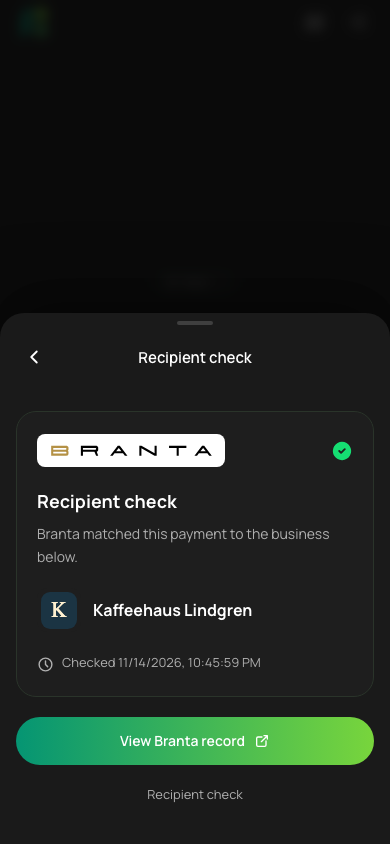
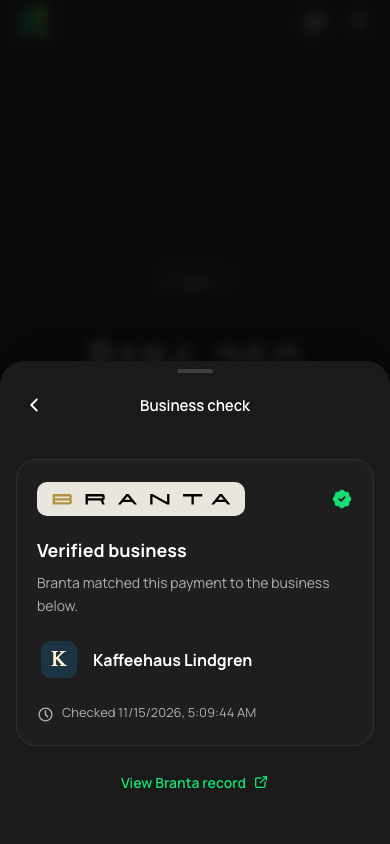
docs(payments): the business check as it now behaves
BRANTA.md describes the named recipient row, what happens at confirm, the
receipt sheet, the other payment paths and the single amount format. The
risks the review examined are kept as a table in the feature record; the
review log itself, the unreferenced older captures and the note that sat
in public/ are removed. Captures are regenerated from the browser run.
The changelog says what a person notices.

diff --git a/docs/BRANTA.md b/docs/BRANTA.md
@@ -2,7 +2,9 @@
 
 [← Feature records](README.md)
 
-Before sending, BuhoGO can match a payment destination to a business registered with [Branta](https://branta.pro). A matched business supplies a centered, accessible logo on the payment review and success screen. Its name stays visible in History, the receipt and verification details. Unmatched, unsupported or unavailable checks keep the ordinary recipient; they are not errors.
+Before sending, BuhoGO can match a payment destination to a business registered with [Branta](https://branta.pro). A matched business is the recipient: its logo, its name and the line "Verified business" with the seal sit in the recipient row of the payment review. The paid screen says "To <name>" with the same mark and seal, and History and the receipt keep the name. Unmatched, unsupported or unavailable checks keep the ordinary recipient; they are not errors.
+
+One name and one icon are used everywhere: "Business check" for the feature and its view (Settings, the sheet, the receipt), "Verified business" for the state, and the seal.
 
 The review keeps BuhoGO's colors, typography, wallet selector and confirmation gestures. Fee, optional note and total are grouped in one card. Bitcoin on-chain speed selection and its SDK fee breakdown remain directly visible, with their existing controls.
 
@@ -10,12 +12,14 @@ The review keeps BuhoGO's colors, typography, wallet selector and confirmation g
 
 | Context | Entry and behavior |
 |---|---|
-| Before paying | Info opens Payment details. A discreet check opens the current recipient check in that same sheet. Back restores details, then the unchanged amount, wallet and note. |
-| After paying | A green receipt-header check opens the saved business check inside the existing receipt page. Back restores the receipt, without a second modal or a new Branta lookup. |
+| Before paying | Tapping the recipient row opens the business check in the same sheet; Back returns to the review. Info opens Payment details, which has a Business check row too; Back from there returns to details. Amount, wallet and note are unchanged either way. |
+| After paying | The seal in the receipt header opens the saved business check as a bottom sheet over the receipt, like the page's other sheets. Done, Escape, a swipe or Back closes it. No new Branta lookup is made. |
 
-BrantaVerificationDetails is shared by both hosts. Current and historical wording differ. New snapshots contain the historical check time; older records without a timestamp never receive an invented time. Branta's original wordmark is bundled locally and is not recolored. Missing artwork uses business initials, with the full name available to assistive technology and in details.
+BrantaVerificationDetails is shared by both hosts. Current and historical wording differ. New snapshots contain the historical check time; older records without a timestamp never receive an invented time. Missing artwork uses the business's initial next to its name, never a generic mark.
 
-The external record opens only when View Branta record is tapped. Invalid URLs are omitted. A failed explicit open offers a short retry message, without a diagnostic report. The receipt host preserves its financial content and restores keyboard focus to the check. Header Back, Escape and history Back close the local disclosure; ordinary navigation can leave.
+The external record opens only when View Branta record is tapped; it is a secondary link, never the screen's main action. Invalid URLs are omitted. A failed explicit open offers a short retry message, without a diagnostic report. The receipt's sheet is an ordinary dialog: it owns Back, Escape and focus return, and the page has no back handling of its own.
+
+Branta's wordmark (`public/images/branta/wordmark-on-light.svg`) is the original from <https://www.branta.pro/brand/wordmark-on-light.svg>, bundled so the check view never requests provider branding over the network. Paths, proportions and colours are unchanged. In the dark theme it sits on a quiet light plate; it is not filtered or recoloured. Brand guidance: <https://www.branta.pro/brand>.
 
 ## SDK and destination binding
 
@@ -26,26 +30,41 @@ Original request/proof parameters remain intact. Duplicate proof or destination 
 | Existing BuhoGO route | Verification boundary |
 |---|---|
 | Lightning invoice | Exact invoice actually paid. |
-| Arkade address | Exact address; preserve BuhoGO's supported route rather than copying CoinSnap's wallet restriction. |
+| Arkade address | Exact address, on every wallet BuhoGO can pay it from. |
 | Bitcoin request with Branta proof | Preserve the full code for SDK decryption, then bind the selected destination. |
 | Unified request | A matching sibling destination does not verify the selected route. |
 | Spark-optimized Lightning | No identity when the SDK does not expose a matching native destination. Routing is not changed to obtain verification. |
 | First-party BuhoGO requests and curated retail | Existing exclusions remain. |
 | Unsupported/unexposed destinations | Ordinary payment behavior. SDK version alone does not establish new Spark/network support. |
 
-The same SDK preparation that selects the route supplies its verification-target metadata. If a refreshed Spark preparation selects another destination before debit, a narrow provider callback stops submission and returns to explicit review. It does not alter routing, send automatically or bypass fee limits.
+The same SDK preparation that selects the route reports that route (`preparedRoute`). If a refreshed Spark preparation selects another destination before debit, the provider's `onPreparedRoute` callback stops submission (`PAYMENT_REVIEW_REQUIRED`) and the sheet returns with one plain line saying the business check is not available. It does not alter routing, send automatically or bypass fee limits. The provider knows nothing about the check itself.
+
+Logo and record URLs must be on the configured Branta origin. The SDK enforces the same rule for logos (it refuses a record whose logo is on another origin), so this does not drop real artwork.
 
 ## Timing and ownership
 
-One request-scoped controller retains the original input, lookup generation, selected wallet/request/amount/route binding and a latched changed-code result. The foreground wait is bounded at two seconds; the lookup deadline is ten seconds. Cached answers have a bounded lifetime. A late normal match cannot replace the settled presentation under a finger.
+All of it lives in `src/services/brantaVerification.js`. `createBrantaVerification` is one lookup session for one payment request: it retains the original input, the lookup generation, the binding to wallet, amount and route, and a latched changed-code result. `createBrantaReview` is what the sheet needs around it: which destination is actually paid, the business accepted at confirm, the guard on the prepared route and the snapshot for the receipt. The wallet page supplies live facts, watches one key and reads the result from the payment; it holds no check state. The check writes only its result (`branta`, `brantaMismatch`) to the payment object: the page re-estimates fees whenever that object changes, so the route a wallet prepared is kept beside it, not on it.
 
-Stale checks refresh before confirmation. A changed displayed identity, including a previously unknown identity, requires review again. The accepted snapshot is frozen for the attempt; later SDK events cannot substitute another business. Cancellation, replacement, wallet changes and disposal invalidate old work. Changed-code results block Send and dominate wallet/details child views.
+The foreground wait is bounded at two seconds; the lookup deadline is ten seconds. Cached answers have a bounded lifetime. A late normal match cannot replace the settled presentation under a finger.
+
+Stale checks refresh at confirmation. What happens then:
+
+| At confirm | Result |
+|---|---|
+| Same business as reviewed, or still no match | The payment is sent. |
+| A check that only now finished and found a business | The payment is sent; the paid screen and the receipt name the business. The destination is the one the person confirmed. |
+| Another business than the one reviewed | The send stops. The row shows the new business and one line says "The recipient changed. Review it before sending." |
+| The reviewed business cannot be confirmed again | The send stops once. One line says the business check is not available; the next tap sends, without the claim. There is no loop. |
+| The recheck is still unanswered (slow link) | The reviewed business is kept and the payment is sent. The sheet does not flicker to the checking state. |
+| A changed code | The payment stops. There is no Send action. |
+
+The accepted snapshot is fixed for the attempt; later SDK events cannot substitute another business. Cancellation, replacement, wallet changes, disposal and a completed send invalidate old work. Changed-code results block Send and dominate wallet/details child views.
 
 The changed-code screen says Ask for a new code, explains that the code changed and reassures that nothing was sent. There is no Send action or bypass.
 
 ## Historical records and privacy
 
-New snapshots retain business fields, check time, SDK version, environment and exact destination. The existing transaction metadata store is reused. Merchant metadata needs wallet-scoped transaction evidence; amount/time-only matches cannot attach a verified business. Weaker association for unrelated contact/note metadata is retained. A first accepted historical identity is not silently replaced; history never runs a fresh verification.
+A saved check keeps what a receipt shows: the business's name, logos and description, the check time, the environment and the record URL. The paid destination and SDK fields are not saved with it. The existing transaction metadata store is reused. A verified business is attached only to the payment its ids prove (the wallet's payment id, hash or preimage, or the invoice's payment hash), in the wallet that paid; amount or time alone never attach one. When no payment proves it within ten minutes, only the claim is dropped: contact, address, label and refund address are stamped as for any other send. A first accepted historical identity is not silently replaced; history never runs a fresh verification.
 
 Record URLs may contain decryption fragments. They stay in local transaction metadata and are not added to payment notes or diagnostic logging. The existing metadata backup API includes the saved snapshot, so such backups remain private payment data. Record/logo URLs require HTTPS and the exact configured Branta origin; credentials and arbitrary record paths are refused.
 
@@ -53,11 +72,21 @@ The SDK performs client-side encrypted lookups. This does not justify absolute a
 
 Settings → Advanced → Business check retains the persisted preference and defaults. Its short footer avoids an absolute privacy promise. Production builds use Production; Staging can be selected only in development.
 
+## Other payment paths
+
+| Path | Business check | Amount entry |
+|---|---|---|
+| Kiosk | Not used; kiosk has its own pages and never mounts the review sheet. | Unchanged. |
+| Bolt Card redeem | Not checked (a redeem is a receive). It uses the same sheet, so the amount entry rules apply. | Shared util. |
+| Batch send | Not checked, as before. | Shared util: a comma is never dropped. |
+| Transfer between own wallets | Not checked; both sides are the person's own. | Shared util: a decimal is refused, never cut off. |
+| Auto-Transfer, shop purchases | Not checked, as before. | No typed amount at send time. |
+
 ## Amount correctness
 
-Fixed amounts use locale grouping for presentation only. Raw entered values and canonical satoshis remain separate. Hero, denomination, fees, total and slide use consistent units, including the existing Bitcoin-format preference. The tap action is simply Send.
+Amounts are written one way on every screen: in the phone's number format, like the balance, the paid screen, the receipt and History. The formatter is `src/utils/amountFormatting.js` (`paymentAmountParts`, `formatPaymentAmount`, `formatFiatAmount`); the fiat line under the amount uses it too, so separators never mix on one sheet. Raw entered values and canonical satoshis remain separate. Hero, denomination, fees, total and slide use consistent units, including the existing Bitcoin-format preference. A fixed amount shown in fiat keeps its approximate sign. The tap action is simply Send.
 
-Locale-aware entry validates grouping and fractional precision without stripping punctuation into a different value. German 10,5 stays 10.5, not 105; grouped whole sats stay whole. Ambiguous or malformed input stays editable with Send disabled.
+Entry (`src/utils/paymentAmountInput.js`) reads the decimal separators of both the app language and the phone, because the keypad's decimal key follows the phone. It validates grouping and fractional precision without stripping punctuation into a different value. 10,5 stays 10.5, not 105, also with the app in English; grouped whole sats stay whole. One mark followed by one or two digits is a decimal. Three digits after a single mark could be thousands or a decimal where both readings exist, so that input is refused. Ambiguous or malformed input stays editable with Send disabled.
 
 BTC-to-satoshi conversion uses decimal digits and integer arithmetic: 0.00000029 BTC remains exactly 29 sats instead of losing a sat to binary floating-point multiplication. Existing payout, refund, card, quote and slide rules remain authoritative. A nonzero fiat fee smaller than a display cent is not mislabeled zero.
 
@@ -65,32 +94,48 @@ BTC-to-satoshi conversion uses decimal digits and integer arithmetic: 0.00000029
 
 - Adapter, timing, exact destination binding, provider pre-debit and merchant-metadata association regressions join the existing full suite.
 - Payment-sheet tests cover exact conversion, grouped display, unit changes, payouts/refunds, unknown fees, child-view restoration and changed-code precedence.
-- Receipt-navigation tests cover Back, ordinary navigation, context resets, Escape and focus.
+- Receipt tests cover the saved check as a sheet, context resets and stale loads.
 - The Branta browser harness uses the real public SDK with a local verifier and simulated wallet providers. No funds or external messages are sent.
 - Payment-sheet, payment-preparation and full contact-chat browser checks retain money/state assertions.
 - Screenshots cover current/historical details, review, changed codes, ordinary fallback, artwork failure, translations/enlarged text and both themes. Native-device acceptance is separate.
 
-Run `npm test` and `pnpm build` for the regression suite and production compilation. With a local dev server on port 9019, run:
+Run `npm test` and `npm run build` for the regression suite and production compilation. With a local dev server on port 9019, run:
 
 ```sh
-BRANTA_BASE_URL=http://localhost:9019 node scripts/check-branta.mjs
+BRANTA_BASE_URL=http://localhost:9019 npm run check:branta
 PAYMENT_SHEET_BASE_URL=http://localhost:9019 npm run check:payment-sheet
 PAYMENT_PREPARATION_BASE_URL=http://localhost:9019 npm run check:payment-preparation
 CONTACT_CHAT_BASE_URL=http://localhost:9019 npm run check:contact-chat
 ```
 
-The [red-team/blue-team review](BRANTA_REVIEW.md) records the failure cases examined and their resolutions.
+## What can go wrong, and what stops it
+
+| Risk | What stops it |
+|---|---|
+| One verified destination brands another route or sibling payment | The decrypted destination must match its owning business and the route the wallet actually prepared. Ambiguous owners remain ordinary payments. |
+| A quote expires and Spark selects another route during submission | The prepared route is checked before the debit. The attempt is refused for another review, without disconnecting the wallet or reporting an error. |
+| A late result changes the recipient under a finger | One lookup session is bound to request, wallet, amount and route, and its settled view is fixed. Changed-code results latch and block submission. |
+| Returning to a route whose check had settled lets another route's late answer show | Every bind supersedes older waits, including the shortcut for a settled route. |
+| A stale or changed business is silently accepted | Stale checks refresh at confirmation; another business requires review. Invalid or expired records cannot create a permanent match. |
+| A receipt inherits branding from another payment | Wallet-scoped proof of the payment is required; time or amount alone, incoming payments and unscoped legacy records never qualify. The first accepted snapshot is kept. |
+| Losing the seal costs a payment its contact | Only the claim waits for proof; the rest of the metadata is stamped as for any send. |
+| A receipt shows a previous context while loading | The check is bound to the loaded route and wallet; stale loads are discarded and the sheet closes when the context changes. |
+| Locale input changes the amount | Decimal and grouping structure is validated for the app language and the phone; ambiguous input is refused and stays editable. |
+| Floating-point BTC conversion loses a satoshi | Decimal digits are converted with integer arithmetic. |
+| Missing artwork, an offline service or unsupported routes block an ordinary payment | Initials or the ordinary recipient are shown; no-match and unavailable checks stay quiet. Only a changed code blocks. |
+| External records or logos introduce unsafe URLs | Only the configured HTTPS Branta origin is accepted; credentials and other paths are refused. Records open only on request. |
+
+Funded payments and native-device acceptance remain separate release checks.
 
 ### App screenshots
 
-These are captures of the implemented Vue app using simulated businesses, providers and payments. The before image is from dev `2ac1eef`; its fixture amount differs from the after captures.
+These are captures of the implemented Vue app using simulated businesses, providers and payments, made by `npm run check:branta`.
 
 | View | Light | Dark |
 |---|---|---|
-| Before: business/payment review | [View](images/branta-review/before-review-light.png) | — |
-| Clean business/payment review | [View](images/branta-review/01-review-light.png) | [View](images/branta-review/01-review-dark.png) |
+| Business on the payment review | [View](images/branta-review/01-review-light.png) | [View](images/branta-review/01-review-dark.png) |
 | Payment details | [View](images/branta-review/01b-payment-details-light.png) | [View](images/branta-review/01b-payment-details-dark.png) |
-| Current recipient check | [View](images/branta-review/02-current-verification-light.png) | [View](images/branta-review/02-current-verification-dark.png) |
+| Business check before paying | [View](images/branta-review/02-current-verification-light.png) | [View](images/branta-review/02-current-verification-dark.png) |
 | Payment complete | [View](images/branta-review/06-sent-light.png) | [View](images/branta-review/06-sent-dark.png) |
 | Receipt | [View](images/branta-review/07-receipt-light.png) | [View](images/branta-review/07-receipt-dark.png) |
 | Saved business check | [View](images/branta-review/08-saved-verification-light.png) | [View](images/branta-review/08-saved-verification-dark.png) |
@@ -100,4 +145,4 @@ These are captures of the implemented Vue app using simulated businesses, provid
 | German BTC amounts | [View](images/branta-review/05-amount-de-btc-bip177-light.png) | [View](images/branta-review/05-amount-de-btc-bip177-dark.png) |
 | Existing on-chain speed/fee selection | [View](images/payment-sheet/07-bitcoin-light.png) | [View](images/payment-sheet/07-bitcoin-dark.png) |
 
-Design reference: [CoinSnap PR #147](https://github.com/pratik227/coinsnap/pull/147), adapted to BuhoGO's theme/providers. Navigation follows [Apple's sheet guidance](https://developer.apple.com/design/human-interface-guidelines/sheets).
+Navigation follows the platform's sheet guidance: a child view inside the sheet with Back, and a sheet with Done over a page.

diff --git a/CHANGELOG.md b/CHANGELOG.md
@@ -10,7 +10,7 @@ Still on a BuhoGO from GitHub or Zapstore older than 1.9.1? It was signed with a
 
 ### Highlights
 
-- **Recognise the business.** When a payment matches a registered business, its logo appears before you send. A small check in payment details and the receipt explains who matched and when. A changed code stops the payment and asks for a new one.
+- **Recognise the business.** When a payment matches a registered business, its logo and name appear as the recipient, marked "Verified business", before you send. Tap it to see who matched and when; the receipt keeps the check. A changed code stops the payment and asks for a new one.
 
 - **Contact chat.** Ask a contact for money, pay their request or send them money in a private, end-to-end encrypted chat. Tap a contact in the Address Book to open it. A request can be typed in your own currency, stays open for 30 days and shows as paid once BuhoGO has confirmed the money arrived. Short messages, replies and reactions sit next to it, and text that looks like a secret key or recovery phrase is never sent.
 - **Up to six Spark wallets.** One recovery phrase now holds up to six equal Spark wallets, to keep savings, a shop or the family apart, and one backup covers them all. Add, rename, switch and remove them in Settings, and move a wallet's Lightning address to another one. Your Business and Personal wallets become two ordinary wallets that keep their names, and a restore brings back every wallet you used.
@@ -27,7 +27,7 @@ Still on a BuhoGO from GitHub or Zapstore older than 1.9.1? It was signed with a
 
 ### UI/UX
 
-- **A clearer payment review.** Fees, the optional note and total sit together, amounts use one consistent format, and Send stays simple. Full requests and business checks remain in details. Bitcoin on-chain speed and fee controls stay directly visible.
+- **A clearer payment review.** Fees, the optional note and total sit together, amounts are written the way your phone writes numbers on every screen, and Send stays simple. Full requests stay in details. Bitcoin on-chain speed and fee controls stay directly visible.
 
 - **Quick access on Android.** Quick Settings tiles for Send and Receive, and a long-press menu on the app icon for Send, Receive, Scan QR and the last person you paid. Any entry can be dragged to the Home screen. Nothing is filled in or paid, and on a locked phone a tile asks to unlock first.
 - **Scan a QR code from a photo.** Every scanner has Choose photo, to read a screenshot of an invoice, a request sent in a chat or a saved connection code. BuhoGO asks for no access to your photo library, and the camera stays off while you choose.
@@ -57,7 +57,7 @@ Still on a BuhoGO from GitHub or Zapstore older than 1.9.1? It was signed with a
 
 ### Bug Fixes
 
-- Fixed BTC amount entry losing a sat during decimal conversion, including 0.00000029 BTC. Decimal commas and grouped amounts no longer turn into a different amount, and the amount, fees and total use consistent units.
+- Fixed BTC amount entry coming out one unit too low for some amounts, such as 0.00000029 BTC. The decimal key of your phone's keypad now works whatever language the app is in, and decimal commas and grouped amounts no longer turn into a different amount.
 
 - Fixed a web issue where adding a wallet straight after reloading its setup page erased every other wallet on the device, a Spark recovery phrase included, and reset settings such as currency and app lock. A tab that missed a change made in another tab now asks you to reload instead of overwriting it.
 - Fixed the Social Bucket's ecash backup on Nostr, which could not be read back, so a restore on another phone would have found nothing. Existing backups are read and replaced. The ecash on the phone itself was always safe.

diff --git a/docs/README.md b/docs/README.md
@@ -21,7 +21,7 @@ How each feature works and the rules that keep it right, written for developers 
 | [Auto-Transfer](AUTO_TRANSFER.md) | Rules that move money on their own, and when they run |
 | [Bolt Card](BOLT_CARD.md) | Taking money from a Bolt Card, in the wallet and at the kiosk |
 | [Kiosk Mode](KIOSK_MODE.md) | The register for staff: its settings page, the PIN, and leaving the register |
-| [Merchant verification](BRANTA.md) | Business checks before paying, saved verification and changed-code protection (Branta) |
+| [Business check](BRANTA.md) | The business behind a payment before paying, the saved check on the receipt and changed-code protection (Branta) |
 | [Shared payment requests](SHARED_REQUESTS.md) | Requests from Receive and repayments from receipts |
 | [Payment review and default wallet](PAYMENT_PREPARATION.md) | Shared payment sheet, header wallet choice, optional details, immediate contact preparation and default payment wallets |
 | [Contact chat](CONTACT_CHAT.md) | Money requests and encrypted messages between contacts |
